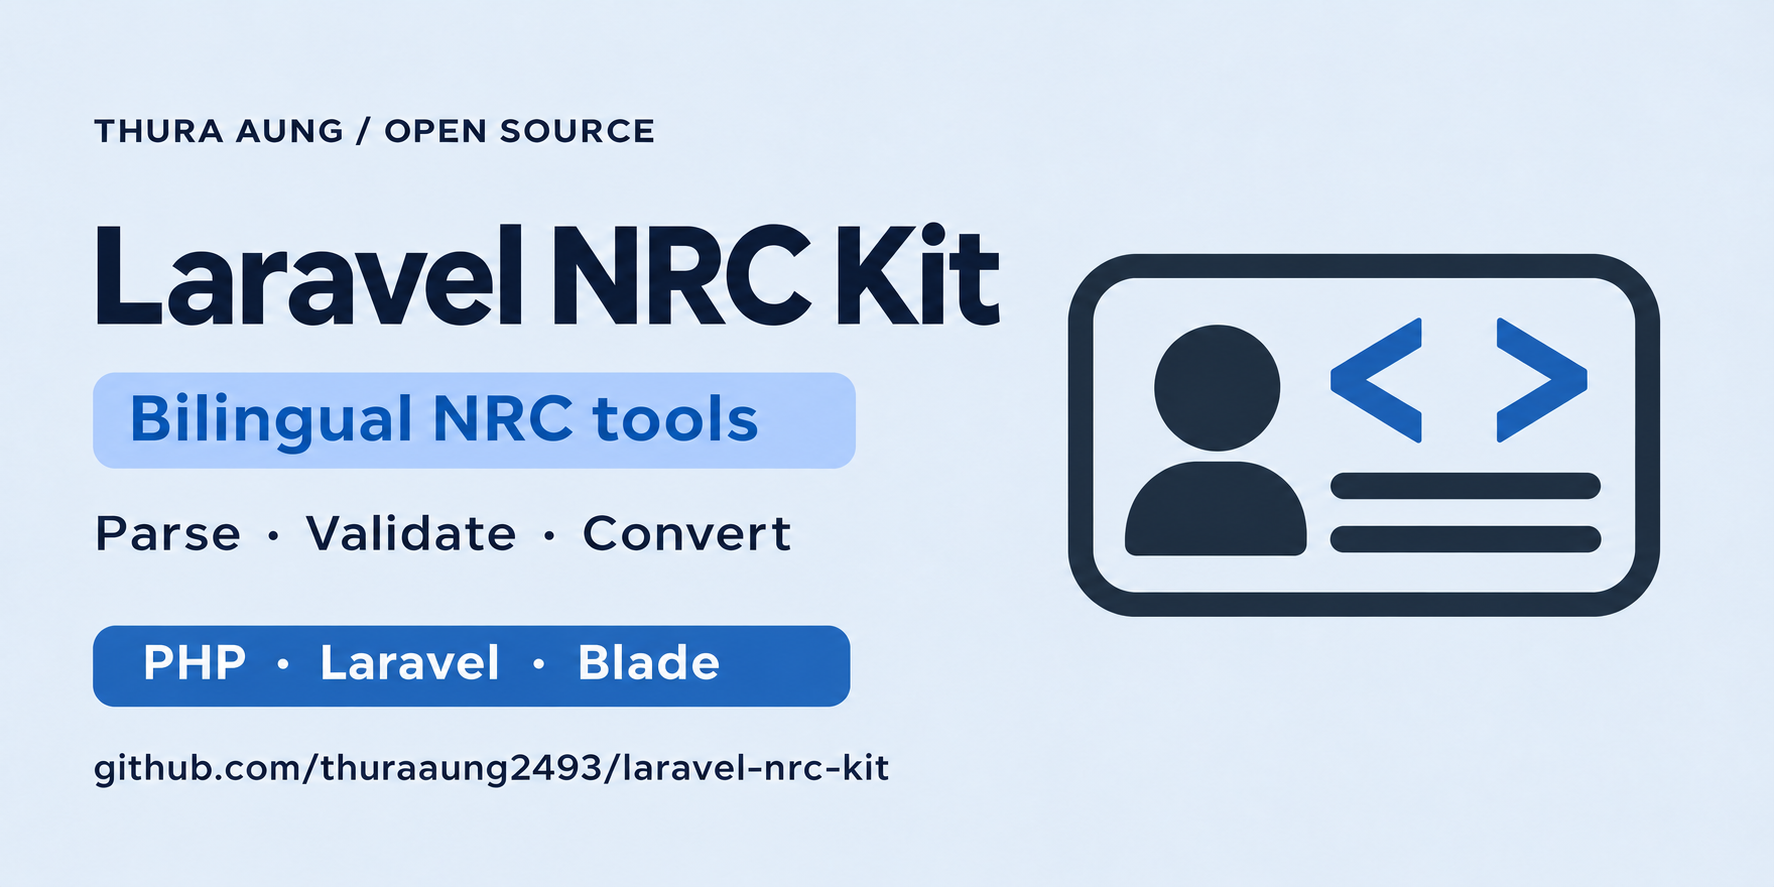
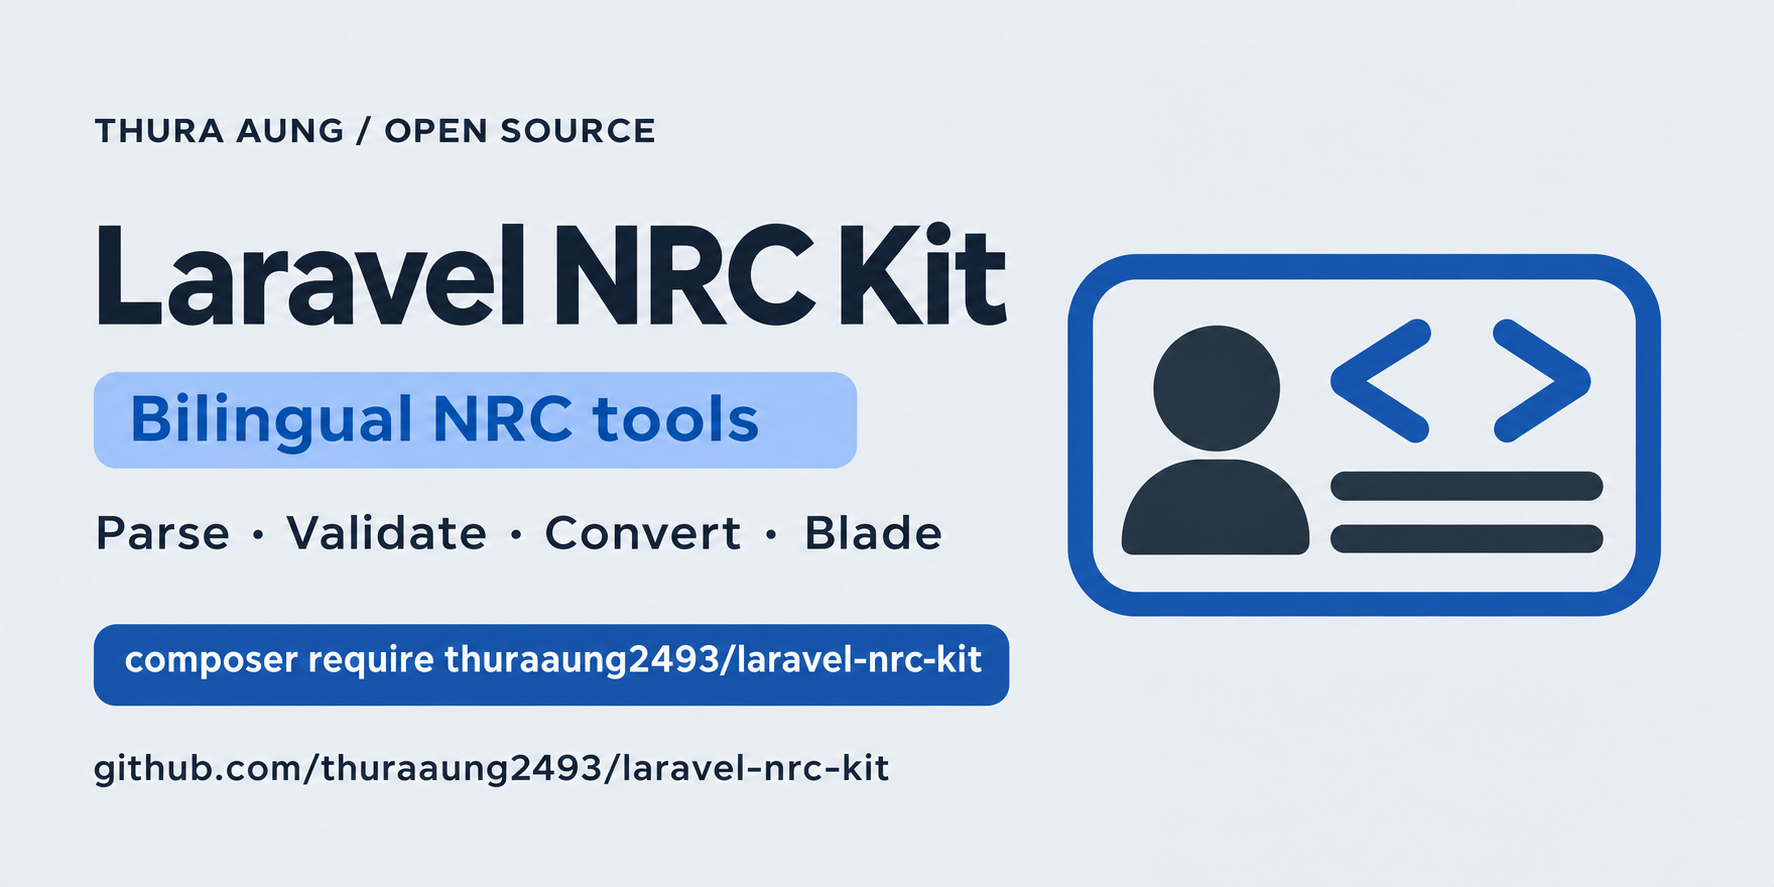
docs: match package artwork to the ts-expressor style

diff --git a/assets/branding/PROMPTS.md b/assets/branding/PROMPTS.md
@@ -1,0 +1,24 @@
+# Artwork prompts
+
+Mode: built-in image generation.
+
+## Logo
+
+A finished minimal flat package icon on a truly transparent SQUARE background. One outlined NRC/identity card containing a person silhouette on the left, two large code angle brackets <> on the right, and two short horizontal data lines under the brackets.
+The rounded rectangular card is 70% of the canvas width and centered with generous empty margins. Simple bold rounded geometry, balanced open spaces, clean crisp edges, no extra shapes.
+Use exactly two opaque solid colors: blue #28518D for the card border and both brackets; navy #25313D for the person and both data lines. The interior of the card is completely transparent.
+No letters or monograms. No pale highlights, cyan, gradients, glow, blur, lighting, background color, haze, texture, shadow, stray pixels, text, watermark or mockup. Production-quality transparent PNG logo, clean like an SVG icon.
+
+## Social preview
+
+Use case: style-transfer / compositing. Asset: Laravel NRC Kit social preview, full wide 2:1.
+Image 1 is the existing Laravel banner edit target. Image 2 is the approved NRC Kit companion banner, with the final blue outlined NRC card-with-<> logo. Match Image 2's exact logo, colors, gray background, typography hierarchy, author line, margins, subtitle panel, command capsule and footer alignment.
+Use the same NRC card logo on the right with identical proportions and crisp rounded shapes. Keep the title one line, fitted cleanly in the left column with no collision with the icon.
+Exact text:
+"THURA AUNG / OPEN SOURCE"
+"Laravel NRC Kit"
+"Bilingual NRC tools"
+"Parse · Validate · Convert · Blade"
+"composer require thuraaung2493/laravel-nrc-kit"
+"github.com/thuraaung2493/laravel-nrc-kit"
+The composer command goes in the lower blue capsule, in white type, sized to fit fully within the left text region. Use the shared blue #28518D, navy #25313D, pale blue #A8C7F5 and soft gray #EDF0F3. No N/B monogram, personal logo, extra text, clipping, watermark, shadow, glow or mockup.

diff --git a/assets/branding/README.md b/assets/branding/README.md
@@ -1,11 +1,13 @@
 # Laravel NRC Kit artwork
 
-- `laravel-nrc-kit-logo.png`: transparent NRC card logo with blue code brackets.
-- `laravel-nrc-kit-social-preview.png`: package README banner in the shared 2:1 layout.
+- `laravel-nrc-kit-logo.png`: transparent NRC card logo with code brackets.
+- `laravel-nrc-kit-social-preview.png`: package banner in the shared 2:1 layout.
+- `PROMPTS.md`: final image-generation prompts.
 
-The NRC card logo, navy typography, blue labels and pale blue-gray
-background follow the existing package banner family. The author line, title,
-purpose, features, technology label and repository URL use consistent alignment.
+The artwork follows ts-expressor’s blue (#28518D), navy (#25313D),
+pale blue (#A8C7F5), and soft gray (#EDF0F3) palette. The preview uses
+an author line, package title, subtitle, features, install command, and
+repository URL. The logo uses an identity card and `<>` without a monogram
+or personal branding mark. Each package has its own portfolio entry.
 
-Created with the built-in image-generation tool for the package. The README
-banner uses the package logo; the standalone logo preserves transparency.
+Created with the built-in image-generation tool.
